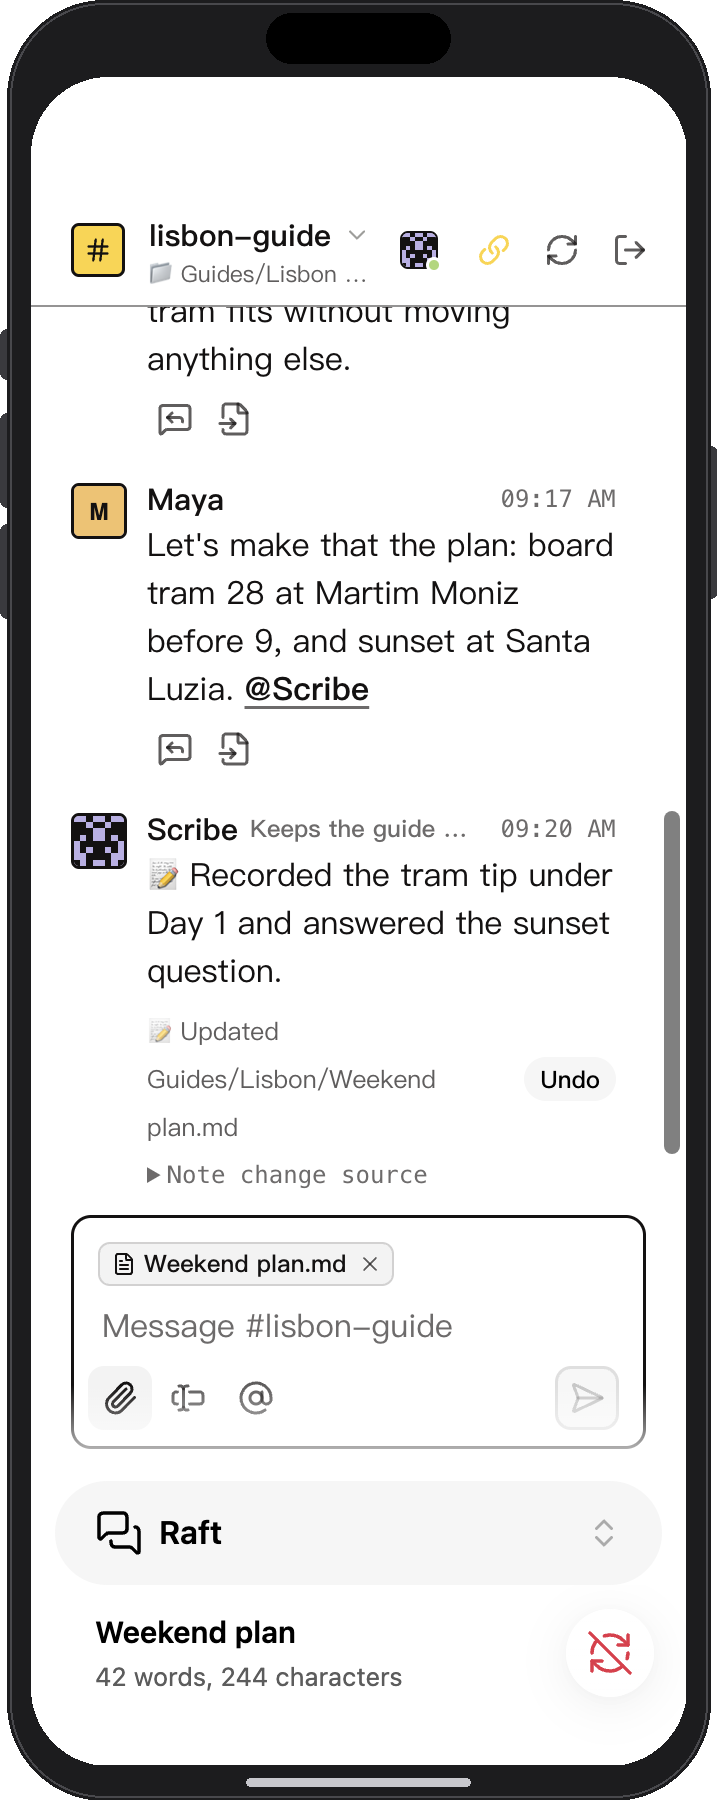
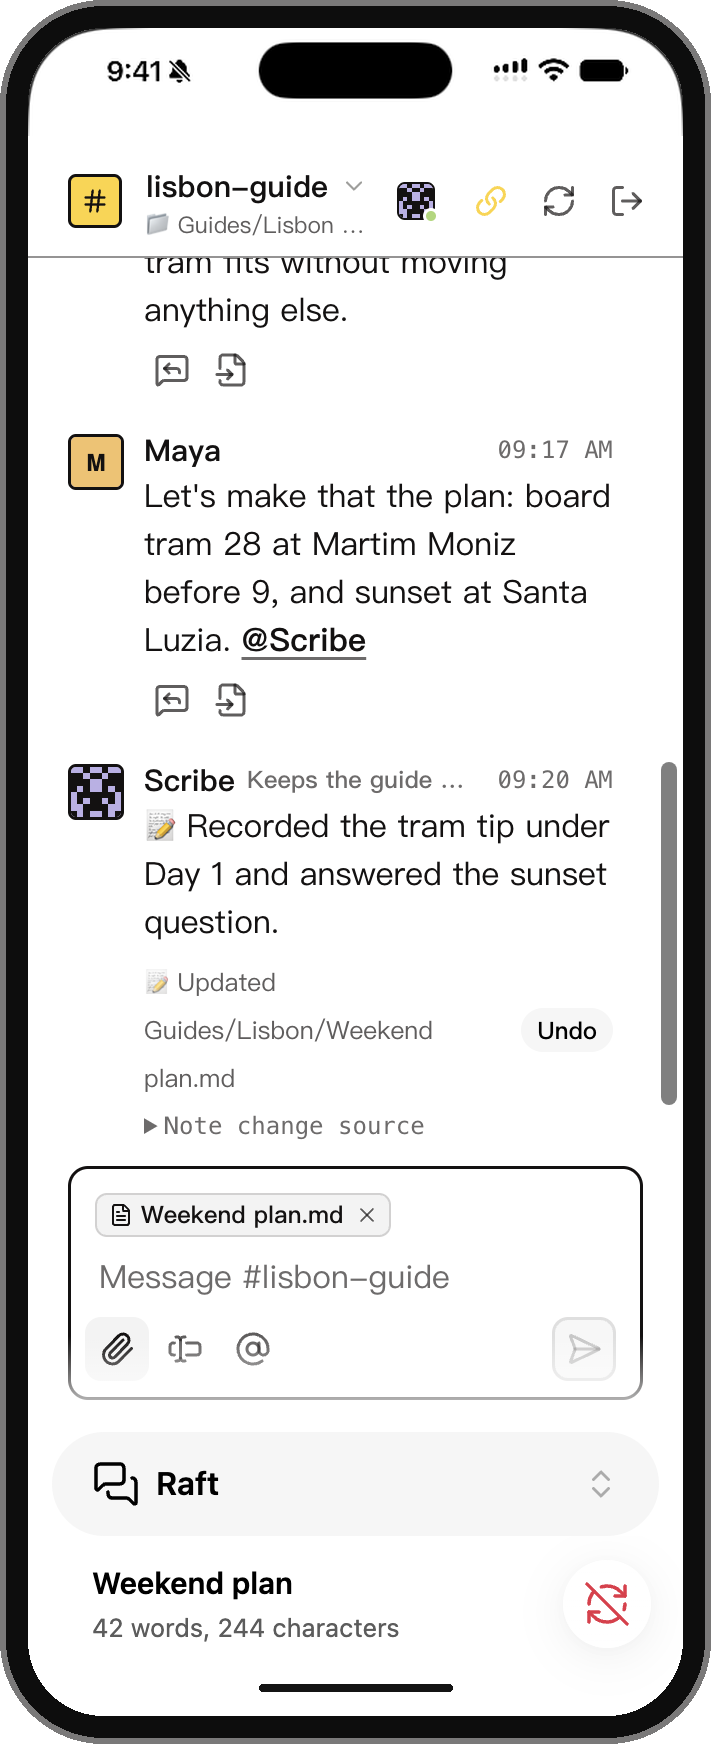
README: style the phone frame after a real iPhone capture
Takes the status bar from a real device screenshot instead of drawing one,
so the frame adds phone chrome only - no invented interface. Black body with
a thin highlight edge, matching the reference. Crops Obsidian's sidebar pane.

diff --git a/scripts/phone-frame.py b/scripts/phone-frame.py
@@ -1,70 +1,56 @@
-"""Wraps a phone-sized screenshot in a generic, hand-drawn phone frame for the README.
+"""Puts a phone frame around a screenshot of the plugin, styled after a real
+iPhone screenshot (black body, thin highlight edge, status bar, home indicator).
+
+The status bar is not drawn: it is lifted from a real iPhone capture given by
+--status-bar-from, so no interface element in the result is invented.
 
 Usage:
-  python3 -I scripts/phone-frame.py <src> <dst> [--crop-left PX]
-
---crop-left trims a left-hand pane (e.g. Obsidian's sidebar) before framing.
-
-The camera pill and the home indicator are drawn in the bezel, never over the
-screenshot, so no part of the captured UI is obscured.
+  python3 -I scripts/phone-frame.py <src> <dst> --status-bar-from <ref.png> [--crop-left PX]
 """
 import sys
 from PIL import Image, ImageDraw
 
-args = [a for a in sys.argv[1:] if not a.startswith("--")]
-crop_left = 0
-if "--crop-left" in sys.argv:
-    crop_left = int(sys.argv[sys.argv.index("--crop-left") + 1])
+def arg(name, default=None):
+    return sys.argv[sys.argv.index(name) + 1] if name in sys.argv else default
 
-src, dst = args[0], args[1]
+src, dst = sys.argv[1], sys.argv[2]
+ref_path = arg("--status-bar-from")
+crop_left = int(arg("--crop-left", 0))
+
 shot = Image.open(src).convert("RGBA")
 if crop_left:
     shot = shot.crop((crop_left, 0, shot.width, shot.height))
-w, h = shot.size
-scale = w / 390  # the screenshot is 390 CSS px wide (before any crop)
+W, H = shot.size
+k = W / 454.0  # 454 = screen width of the reference capture
 
-side = round(4 * scale)
-screen_r, body_r = round(46 * scale), round(58 * scale)
-# Bezel must be tall enough at the top/bottom to hold the pill / home indicator.
-pill_h = round(30 * scale)
-bar_h = round(5 * scale)
-bezel_top = pill_h + round(16 * scale)
-bezel_bottom = bar_h + round(16 * scale)
-bezel_x = round(14 * scale)
+# --- real status bar, scaled to this screen width ---
+if ref_path:
+    ref = Image.open(ref_path).convert("RGBA")
+    bar = ref.crop((20, 83, 474, 158))                 # status-bar strip of the reference
+    bar = bar.resize((W, round(bar.height * W / bar.width)), Image.LANCZOS)
+    shot.alpha_composite(bar, (0, 0))
 
-W = w + 2 * bezel_x + 2 * side
-H = h + bezel_top + bezel_bottom
-canvas = Image.new("RGBA", (W, H), (0, 0, 0, 0))
+# --- frame geometry, matching the reference ---
+edge = max(2, round(4 * k))      # thin highlight on the outside
+body = max(6, round(15 * k))     # black body between highlight and screen
+screen_r = round(52 * k)
+body_r = screen_r + body
+CW = W + 2 * (edge + body)
+CH = H + 2 * (edge + body)
+canvas = Image.new("RGBA", (CW, CH), (0, 0, 0, 0))
 draw = ImageDraw.Draw(canvas)
 
-# Side buttons, drawn first so the body overlaps them.
-button = (58, 58, 62, 255)
-for top, length in ((150, 30), (200, 56), (266, 56)):
-    draw.rounded_rectangle(
-        (0, bezel_top + round(top * scale), side * 2, bezel_top + round((top + length) * scale)),
-        radius=side, fill=button)
-draw.rounded_rectangle(
-    (W - side * 2, bezel_top + round(220 * scale), W, bezel_top + round(310 * scale)),
-    radius=side, fill=button)
+draw.rounded_rectangle((0, 0, CW - 1, CH - 1), radius=body_r + edge, fill=(122, 121, 121, 255))
+draw.rounded_rectangle((edge, edge, CW - edge - 1, CH - edge - 1), radius=body_r, fill=(13, 13, 13, 255))
 
-draw.rounded_rectangle((side, 0, W - side, H), radius=body_r, fill=(28, 28, 30, 255))
-draw.rounded_rectangle((side + 3, 3, W - side - 3, H - 3), radius=body_r - 3,
-                       outline=(72, 72, 76, 255), width=max(2, round(scale)))
+mask = Image.new("L", (W, H), 0)
+ImageDraw.Draw(mask).rounded_rectangle((0, 0, W - 1, H - 1), radius=screen_r, fill=255)
+canvas.paste(shot, (edge + body, edge + body), mask)
 
-mask = Image.new("L", (w, h), 0)
-ImageDraw.Draw(mask).rounded_rectangle((0, 0, w, h), radius=screen_r, fill=255)
-canvas.paste(shot, (side + bezel_x, bezel_top), mask)
-
-# Camera pill in the top bezel, home indicator in the bottom bezel.
-cx = W // 2
-pill_w = round(110 * scale)
-pill_top = (bezel_top - pill_h) // 2
-draw.rounded_rectangle((cx - pill_w // 2, pill_top, cx + pill_w // 2, pill_top + pill_h),
-                       radius=pill_h // 2, fill=(0, 0, 0, 255))
-bar_w = round(134 * scale)
-bar_top = bezel_top + h + (bezel_bottom - bar_h) // 2
-draw.rounded_rectangle((cx - bar_w // 2, bar_top, cx + bar_w // 2, bar_top + bar_h),
-                       radius=bar_h // 2, fill=(200, 200, 205, 255))
+# --- home indicator, in the blank strip at the bottom of the screen ---
+bar_w, bar_h = round(134 * k), round(5 * k)
+bx, by = (CW - bar_w) // 2, edge + body + H - round(22 * k)
+draw.rounded_rectangle((bx, by, bx + bar_w, by + bar_h), radius=bar_h // 2, fill=(20, 20, 20, 255))
 
 canvas.save(dst, optimize=True)
-print(dst, canvas.size)
+print(dst, canvas.size, 'ratio', round(canvas.width / canvas.height, 3))
